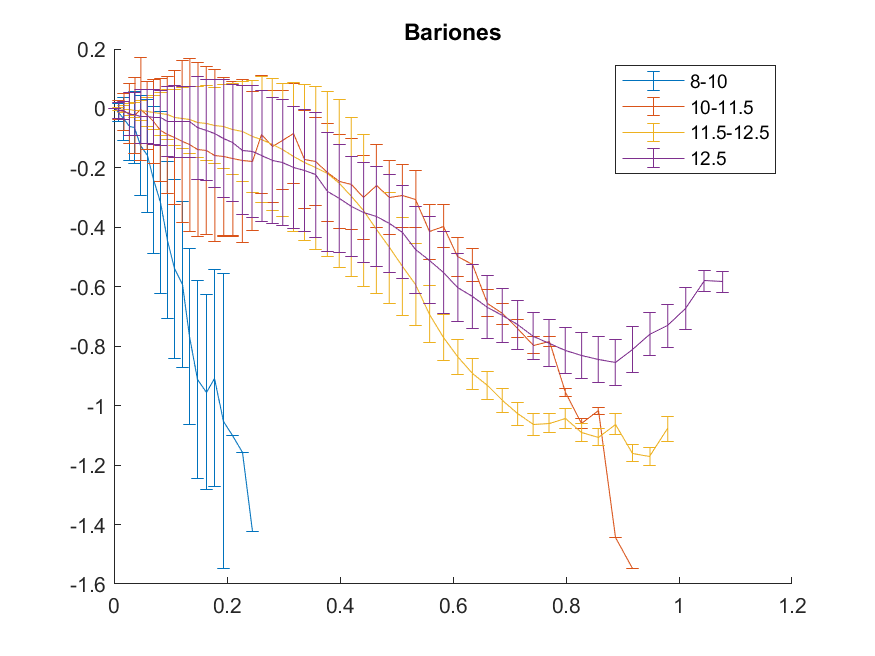
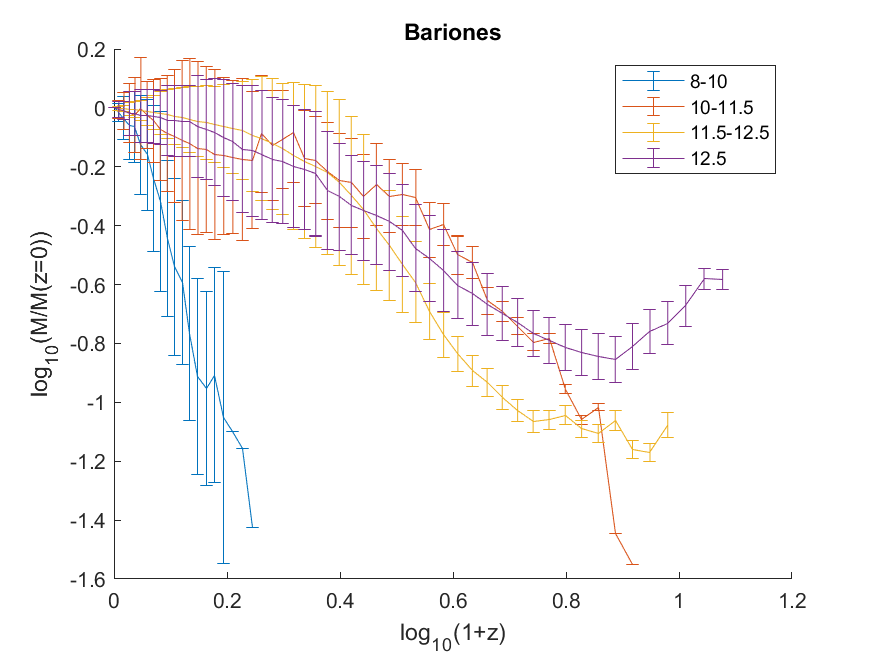
Update_final

diff --git a/Analisis.m b/Analisis.m
@@ -5,12 +5,12 @@ masa_Crit200 = 1e10; %M_sun/h
 
 % path_Data = 'Data\8-10\';
 % path_DataG = 'Data\8-10G\';
-% path_Data = 'Data\10-11.5\';
-% path_DataG = 'Data\10-11.5G\';
+path_Data = 'Data\10-11.5\';
+path_DataG = 'Data\10-11.5G\';
 % path_Data = 'Data\11.5-12.5\';
 % path_DataG = 'Data\11.5-12.5G\';
-path_Data = 'Data\12.5\';
-path_DataG = 'Data\12.5G\';
+% path_Data = 'Data\12.5\';
+% path_DataG = 'Data\12.5G\';
 
 
 Ajustar_monotona_decreciente = 4;
@@ -78,8 +78,10 @@ hold on
 for j = 1:n_data
     plot(log10(1+all_redshift(1:all_max_len(j),j)),log10(dall_m_Crit200(1:all_max_len(j),j)/dall_m_Crit200(1,j)))
 end
-title 'mCrit200'
-saveas(gcf, sprintf('DibAuto/MCrit200 %s.png',path_Data(6:end-1))) 
+title(path_Data(6:end-1))
+xlabel('log_1_0(1+z)')
+ylabel('log_1_0(M_C_r_i_t_2_0_0/M_C_r_i_t(z=0))')
+saveas(gcf, sprintf('DibAuto/MCrit%s.png',path_Data(6:end-1))) 
 
 dall_stellar = all_stellarG * masa_Crit200;
 figure(2)
@@ -88,8 +90,10 @@ hold on
 for j = 1:n_data
     plot(log10(1+all_redshift(1:all_max_len(j),j)),log10(dall_stellar(1:all_max_len(j),j)/dall_stellar(1,j)))
 end
-title 'Bariones'
-saveas(gcf, sprintf('DibAuto/Bariones %s.png',path_Data(6:end-1))) 
+title(path_Data(6:end-1))
+xlabel('log_1_0(1+z)')
+ylabel('log_1_0(M_S_t_e_l_l_a_r/M_S_t_e_l_l_a_r(z=0))')
+saveas(gcf, sprintf('DibAuto/Bariones%s.png',path_Data(6:end-1))) 
 
 %%%%%%%%%%%%%%%%%%%%%%%%%%%%%%%%%%%%%
 %% Ahora calculamos la media DM
@@ -135,8 +139,10 @@ valores_medios(isnan(valores_medios)) = [];
 
 figure(3)
 errorbar(log10(1+redshift_dibujar(1:length(valores_medios))),valores_medios, desviacion_std);
-title 'media MCrit'
-saveas(gcf, sprintf('DibAuto/Media MCrit200 %s.png',path_Data(6:end-1))) 
+title(['Media ', path_Data(6:end-1)])
+xlabel('log_1_0(1+z)')
+ylabel('log_1_0(M_C_r_i_t_2_0_0/M_C_r_i_t(z=0))')
+saveas(gcf, sprintf('DibAuto/MediaMCrit%s.png',path_Data(6:end-1))) 
 %%%%%%%%%%%%%%%%%%%%%%%%%%%%%%%%%%%%%%%%%%%%%%%%%%%%%%%%%%%%%%%%%%%%%%%%%%%%%%%%%
 valores_mediosG = zeros(1,63);
 numero_mediosG = valores_mediosG;
@@ -180,15 +186,19 @@ valores_mediosG(isnan(valores_mediosG)) = [];
 
 figure(4)
 errorbar(log10(1+redshift_dibujar(1:length(valores_mediosG))),valores_mediosG, desviacion_stdG);
-title 'media bariones'
-saveas(gcf, sprintf('DibAuto/Media Bariones %s.png',path_Data(6:end-1))) 
+title(path_Data(6:end-1))
+xlabel(['Media ', 'log_1_0(1+z)'])
+ylabel('log_1_0(M_S_t_e_l_l_a_r/M_S_t_e_l_l_a_r(z=0))')
+saveas(gcf, sprintf('DibAuto/MediaBariones%s.png',path_Data(6:end-1))) 
 
 figure(5)
 clf
 hold on
 errorbar(log10(1+redshift_dibujar(1:length(valores_medios))),valores_medios, desviacion_std);
 errorbar(log10(1+redshift_dibujar(1:length(valores_mediosG))),valores_mediosG, desviacion_stdG);
-title(path_Data(6:end-1))
+title(['Media ambos ', path_Data(6:end-1)])
+xlabel('log_1_0(1+z)')
+ylabel('log_1_0(M/M(z=0))')
 legend('DM', 'Bariones')
 saveas(gcf, sprintf('DibAuto/Media Ambos %s.png',path_Data(6:end-1)))
 

diff --git a/dibujartodojunto.m b/dibujartodojunto.m
@@ -13,6 +13,8 @@ load('Variables/Datos 12.5.mat')
 plot(X1,Y1)
 legend('8-10', '10-11.5', '11.5-12.5', '12.5')
 title 'MCrit200'
+xlabel('log_1_0(1+z)')
+ylabel('log_1_0(M/M(z=0))')
 saveas(gcf,'DibAuto/DM sin barras.png')
 
 % bariones sin barras de error
@@ -29,6 +31,8 @@ load('Variables/Datos 12.5.mat')
 plot(X2,Y2)
 legend('8-10', '10-11.5', '11.5-12.5', '12.5')
 title 'Bariones'
+xlabel('log_1_0(1+z)')
+ylabel('log_1_0(M/M(z=0))')
 saveas(gcf,'DibAuto/Bariones sin barras.png')
 
 % DM con barras de error
@@ -45,6 +49,8 @@ load('Variables/Datos 12.5.mat')
 errorbar(X1,Y1,Z1)
 legend('8-10', '10-11.5', '11.5-12.5', '12.5')
 title 'MCrit200'
+xlabel('log_1_0(1+z)')
+ylabel('log_1_0(M/M(z=0))')
 saveas(gcf,'DibAuto/DM con barras.png')
 
 % Bariones con barras de error
@@ -61,4 +67,6 @@ load('Variables/Datos 12.5.mat')
 errorbar(X2,Y2,Z2)
 legend('8-10', '10-11.5', '11.5-12.5', '12.5')
 title 'Bariones'
+xlabel('log_1_0(1+z)')
+ylabel('log_1_0(M/M(z=0))')
 saveas(gcf,'DibAuto/Bariones con barras.png')

diff --git a/dibujartodojunto_alt.m b/dibujartodojunto_alt.m
@@ -23,6 +23,8 @@ plot(X1,Y1+Z1, ':k')
 plot(X1,Y1-Z1, ':k')
 legend([h1 h2 h3 h4], '8-10', '10-11.5', '11.5-12.5', '12.5')
 title 'MCrit200'
+xlabel('log_1_0(1+z)')
+ylabel('log_1_0(M/M(z=0))')
 saveas(gcf,'DibAuto/DM con barras alt.png')
 
 % Bariones con barras de error
@@ -47,4 +49,6 @@ plot(X2,Y2+Z2, ':k')
 plot(X2,Y2-Z2, ':k')
 legend([h1 h2 h3 h4], '8-10', '10-11.5', '11.5-12.5', '12.5')
 title 'Bariones'
+xlabel('log_1_0(1+z)')
+ylabel('log_1_0(M/M(z=0))')
 saveas(gcf,'DibAuto/Bariones con barras alt.png')
